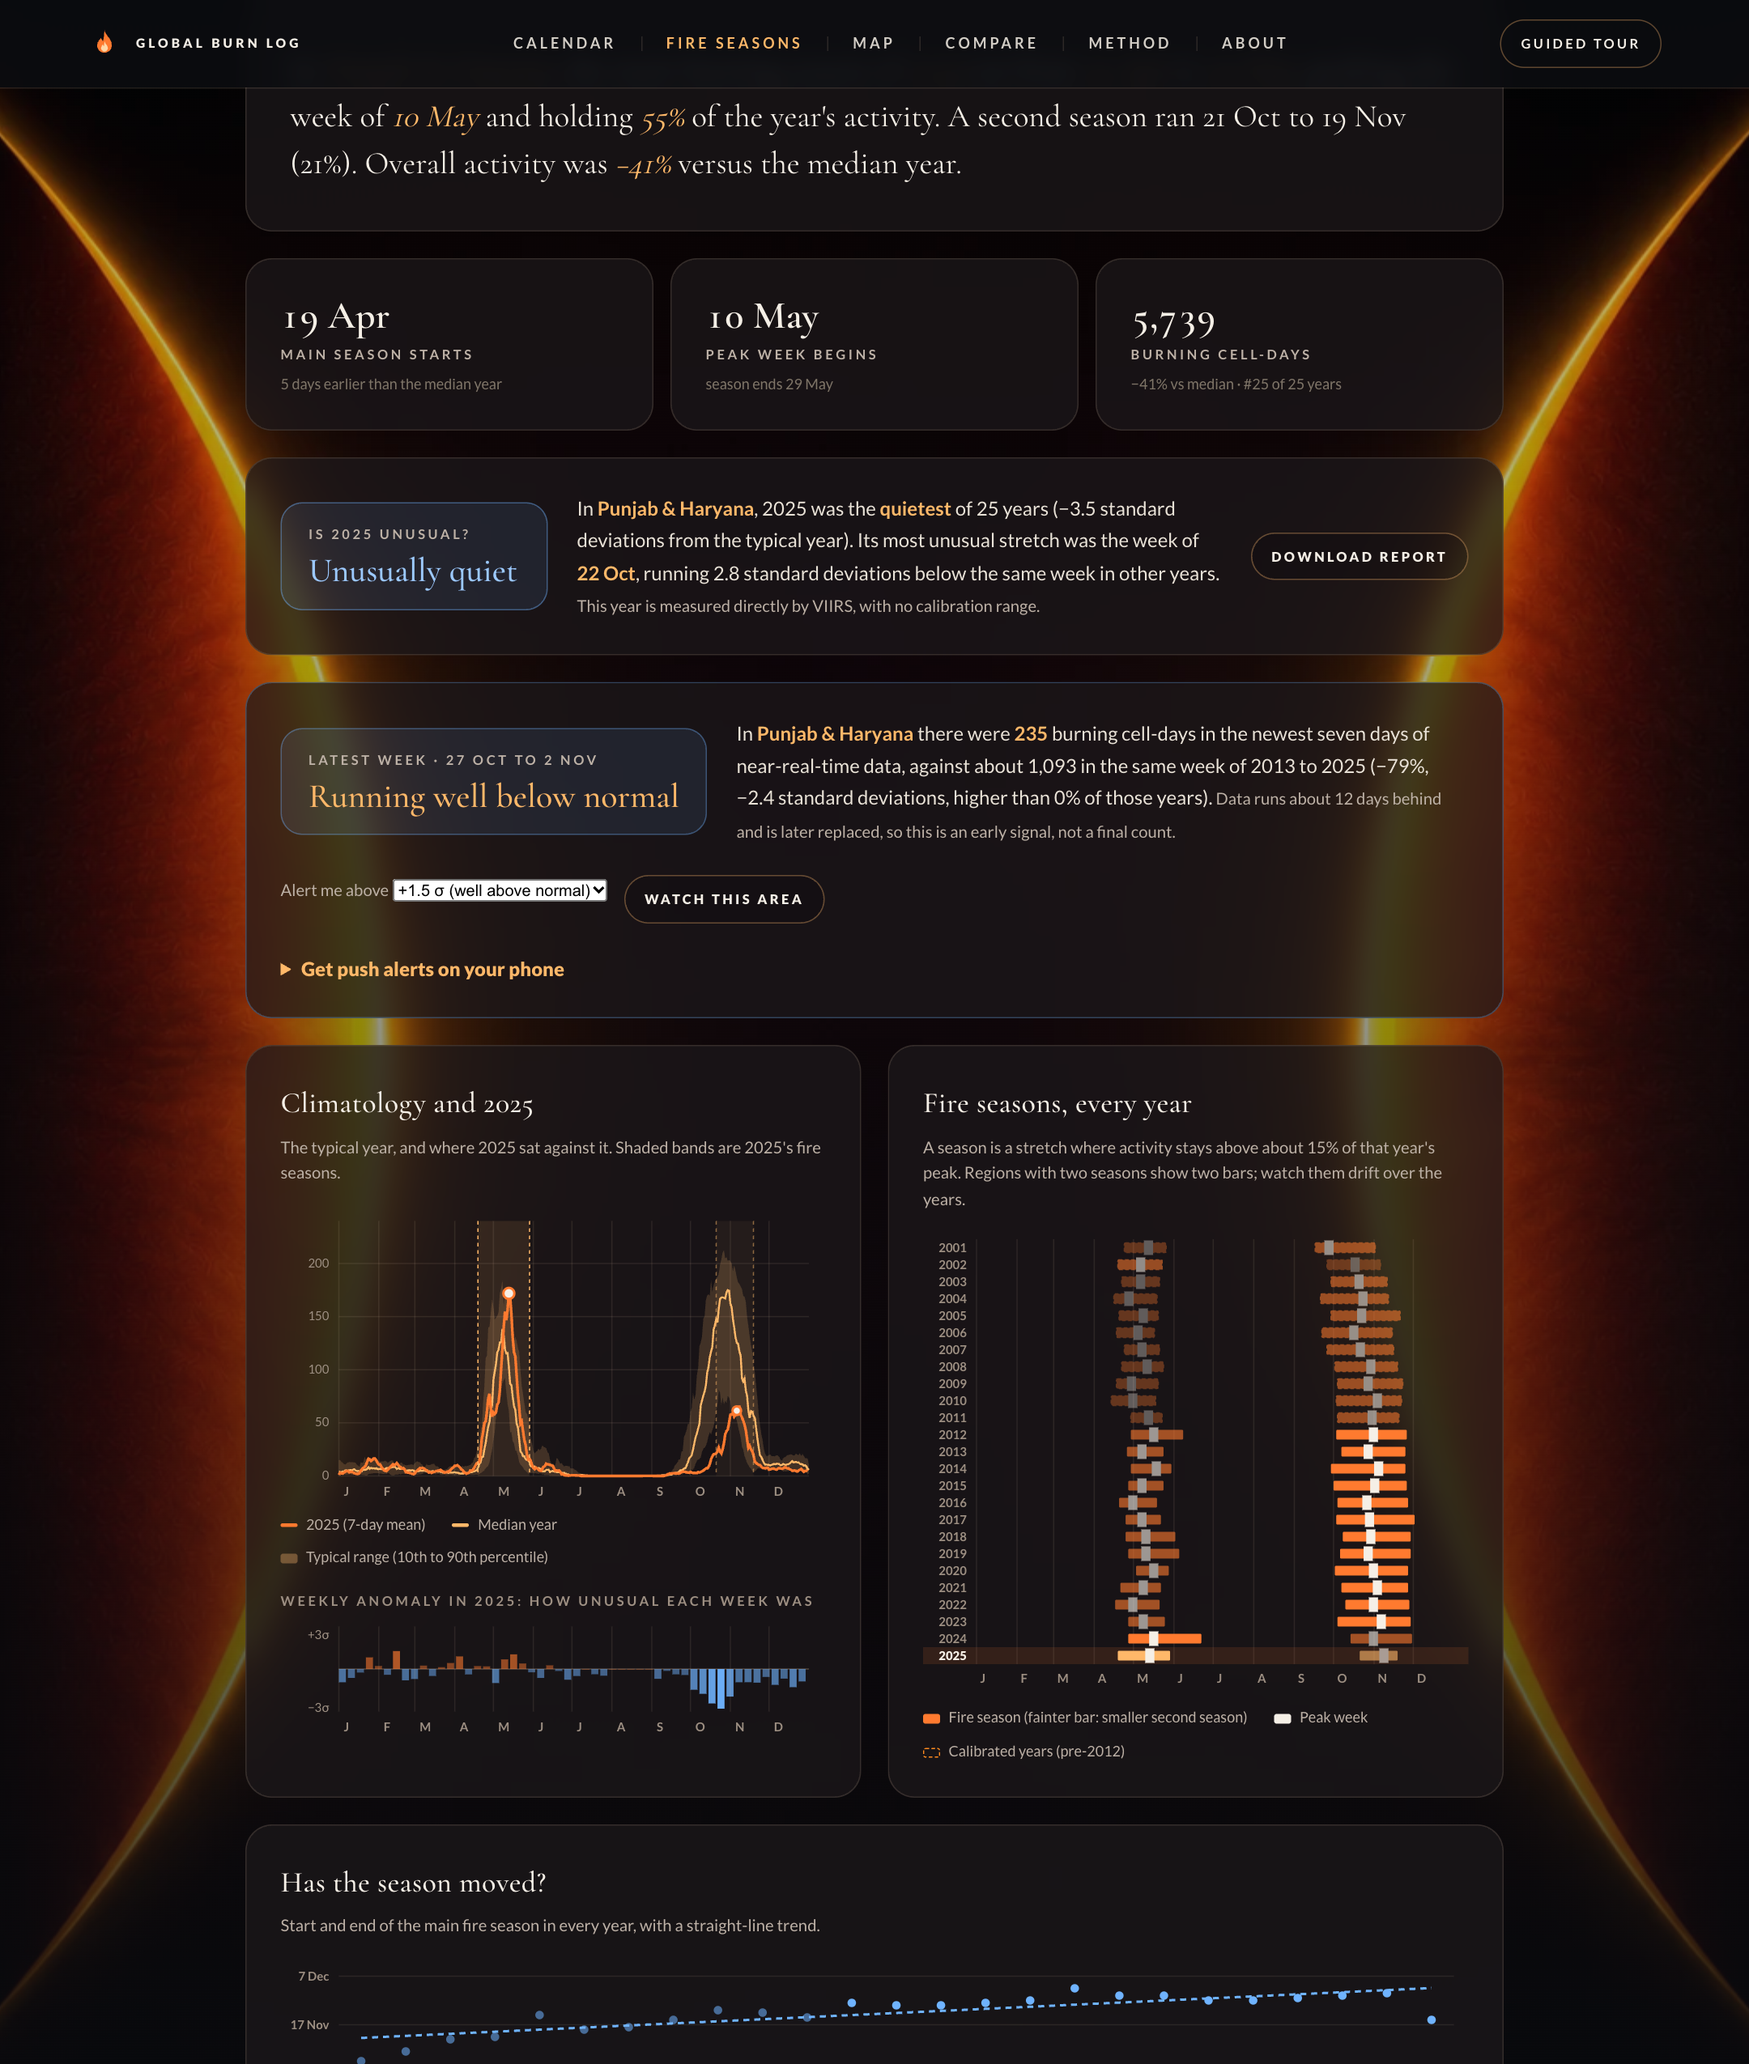
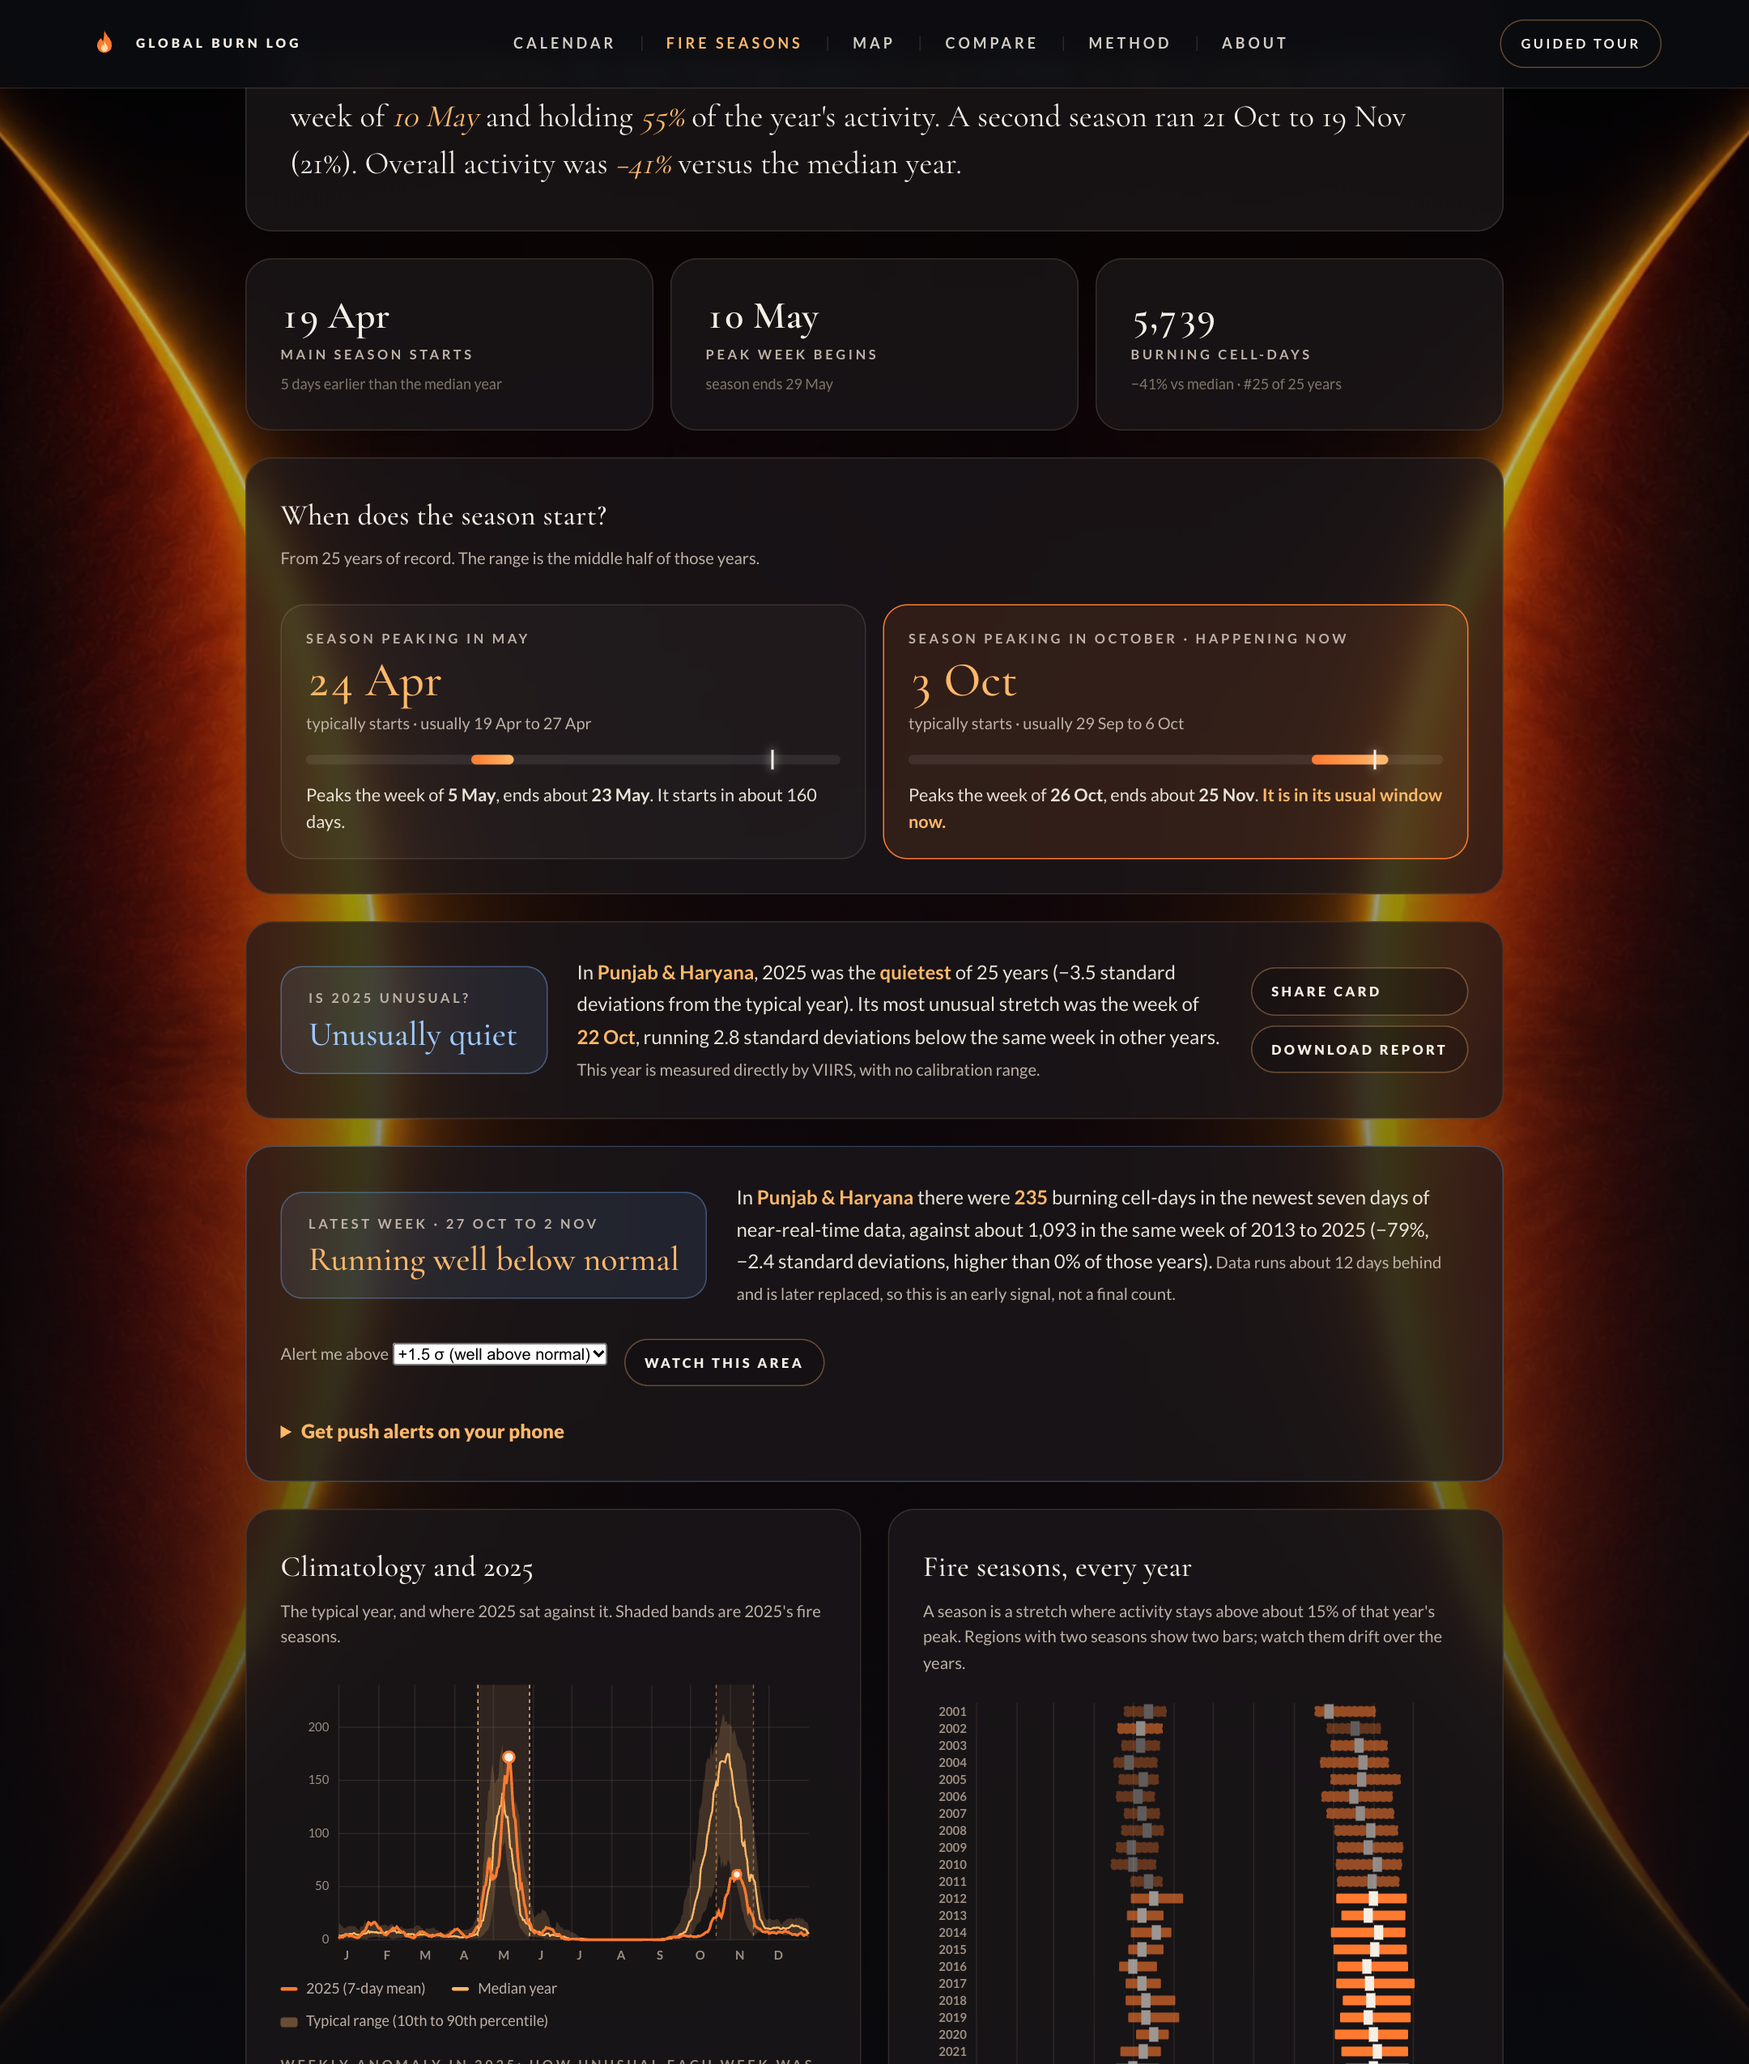
Refresh screenshots for the new features; update project page text

Changed region(s): [[0.1241, 0.2478, 0.8685, 1.0], [0.7444, 0.2478, 0.7755, 0.2788]]

diff --git a/docs/submission/PROJECT_PAGE.md b/docs/submission/PROJECT_PAGE.md
@@ -18,7 +18,7 @@ Global Burn Log: a harmonised burning-activity calendar for the whole planet
 Twenty-five years of satellite fire detections from every country, stitched across sensors that never agreed with each other, so anyone can see when a region's fire season starts, when it peaks and how this year compares.
 
 ## What it does
-Global Burn Log turns NASA's active-fire detections into a burning-activity calendar for any area on Earth. Pick a country, a featured region, or draw your own area, and it shows every day since 2000 as a calendar heatmap, the typical year with its normal range, the fire seasons of every year, anomalies against the same week in other years, and a map of where it burned. It also says in one line whether a year was unusual, compares the newest week of near-real-time data with the same week in earlier years, offers a watchlist and phone alerts for the world and the featured regions, and can replay well-known events (Australia 2019-20, Canada 2023, the Amazon 2019). A one-minute guided tour walks through the Punjab and Haryana crop-residue burning season: when it starts, when it peaks and how the latest year compares (the 2025 autumn burn was the lowest of the 25 years).
+Global Burn Log turns NASA's active-fire detections into a burning-activity calendar for any area on Earth. Pick a country, a featured region, or draw your own area, and it shows every day since 2000 as a calendar heatmap, the typical year with its normal range, the fire seasons of every year, anomalies against the same week in other years, and a map of where it burned. It also says in one line whether a year was unusual, compares the newest week of near-real-time data with the same week in earlier years, offers a watchlist and phone alerts for the world and the featured regions, can show where a year was unusual cell by cell on the map, ranks which places are furthest from normal this week, counts down to a region's typical season start, lets anyone download the data and a ready notebook, installs on a phone and works offline, offers colour-blind safe colours and a Spanish, Portuguese and Hindi interface, and can replay well-known events (Australia 2019-20, Canada 2023, the Amazon 2019). A one-minute guided tour walks through the Punjab and Haryana crop-residue burning season: when it starts, when it peaks and how the latest year compares (the 2025 autumn burn was the lowest of the 25 years).
 
 ## The problem it solves
 Active-fire hotspots have been recorded for more than 20 years, but the record is split across sensors that cannot be compared directly. VIIRS (375 m) sees many more small fires than MODIS (1 km), so a naive count jumps several-fold (about sixfold for India) the day VIIRS comes online in 2012. That makes long-term patterns, unusual years and critical periods impossible to read. Early-warning teams, scientists and land managers need one consistent record.
